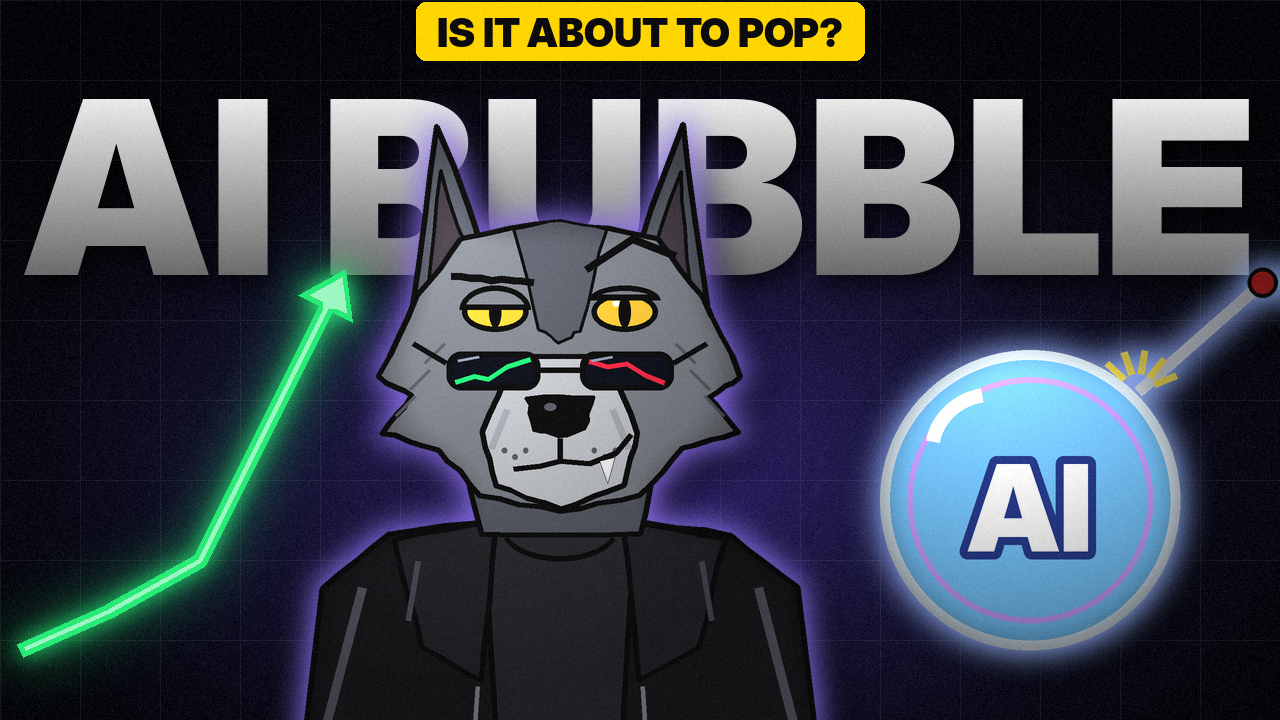
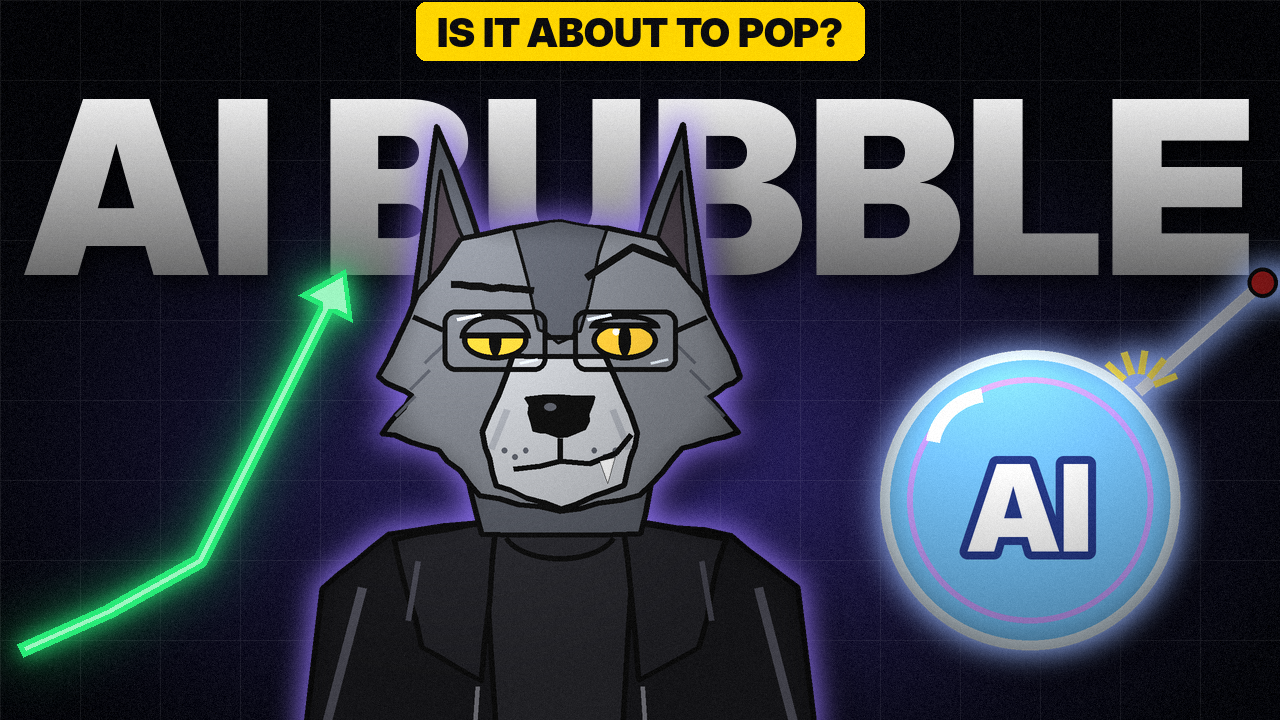
Wolf portrait: clear glasses option
Claude-Session: https://claude.ai/code/session_01UfLUgJczAYJw2VoQ5ySqhd

Changed region(s): [[0.3125, 0.3667, 0.5625, 0.55], [0.4688, 0.3361, 0.5312, 0.3667]]

diff --git a/youtube/kit/thumbs.py b/youtube/kit/thumbs.py
@@ -171,7 +171,7 @@ def wolf_portrait(d, cx, cy, s=1.0, lens=True, mood="smirk", glasses="on", hat=N
     elif mood == "shock":
         sh(d, wob(cx, cy + 165 * s, 30 * s, 28 * s, seed=218), (90, 26, 32), lw)
     # глаза (видны, если очки приспущены): жёлтые, хитрые, с полуприкрытым веком
-    if glasses in ("down", "none"):
+    if glasses in ("down", "none", "clear"):
         for k, open_ in ((-1, 0.55), (1, 0.8)):
             ex, ey = k * 98, (-88 if glasses == "down" else -45)
             d.ellipse([P(ex - 50, ey - 30), P(ex + 50, ey + 30)], fill=(255, 205, 60), outline=INK, width=lw)
@@ -192,12 +192,21 @@ def wolf_portrait(d, cx, cy, s=1.0, lens=True, mood="smirk", glasses="on", hat=N
             pp = [P(x0 + (x1 - x0) * u, y0 + (y1 - y0) * v) for u, v in pts]
             d.line(pp, fill=col, width=max(3, int(8 * s)), joint="curve")
         d.line([P(x0 + 18, y0 + 14), P(x0 + 50, y0 + 8)], fill=(150, 160, 180), width=max(2, int(5 * s)))   # блик
+    if glasses == "clear":                       # прозрачные очки в тонкой оправе: глаза видны
+        for k in (-1, 1):
+            x0, x1 = (-178, -20) if k < 0 else (20, 178)
+            d.rounded_rectangle([P(x0, -92), P(x1, 2)], radius=int(20 * s), outline=INK, width=max(4, int(8 * s)))
+            d.line([P(x0 + 22, -76), P(x0 + 58, -84)], fill=(230, 240, 255), width=max(2, int(6 * s)))      # блики на стекле
+            d.line([P(x1 - 40, -10), P(x1 - 14, -16)], fill=(230, 240, 255), width=max(2, int(5 * s)))
+        d.line([P(-20, -50), P(20, -50)], fill=INK, width=max(4, int(8 * s)))                              # перемычка
+        for k in (-1, 1):
+            d.line([P(k * 178, -60), P(k * 222, -80)], fill=INK, width=max(4, int(8 * s)))                 # дужки
     if lens_box:
         d.line([P(lens_box[0][2], bridge_y), P(lens_box[1][0], bridge_y)], fill=INK, width=lw)   # перемычка
         for k in (-1, 1):
             d.line([P(k * lens_box[1][2], arm_y), P(k * 222, arm_y - 30)], fill=INK, width=lw)    # дужки
     # брови: левая ровная, правая поднята — «самодовольный» взгляд
-    by = -40 if glasses == "down" else (5 if glasses == "none" else 0)
+    by = -40 if glasses == "down" else (5 if glasses == "none" else (-28 if glasses == "clear" else 0))
     W.line(d, P(-165, -102 + by), P(-40, -92 + by), max(5, int(12 * s)), seed=219)
     d.line([P(40, -112 + by), P(110, -158 + by), P(175, -132 + by)], fill=INK, width=max(5, int(12 * s)), joint="curve")
 
